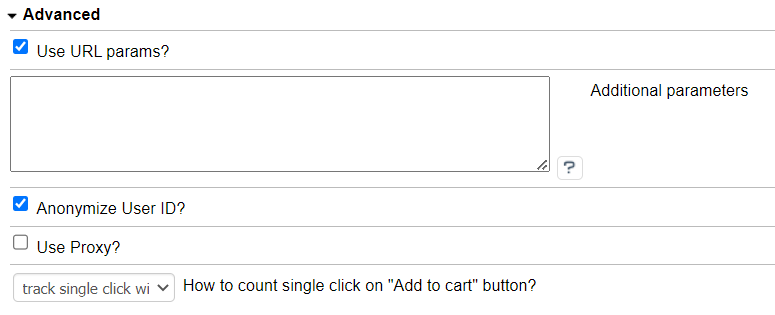
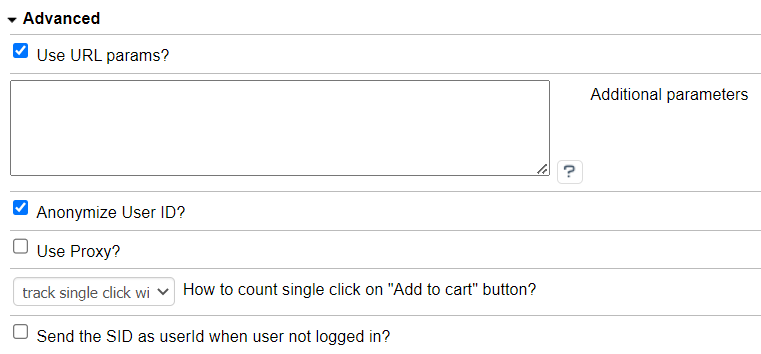
FFWEB-2674: Add option to send the SID as userId when user not logged in

diff --git a/src/out/js/tracking.js b/src/out/js/tracking.js
@@ -1,13 +1,13 @@
-function registerAddToCartListener(selector, productData, userId) {
+function registerAddToCartListener({selector, productData, useSidAsUserId}) {
     if (typeof factfinder === 'undefined') {
         document.addEventListener('ffCommunicationReady', function () {
-            init(selector, productData);
+            init(selector, productData, useSidAsUserId);
         });
     } else {
-        init(selector, productData);
+        init(selector, productData, useSidAsUserId);
     }
 
-    function init(selector, productData) {
+    function init(selector, productData, useSidAsUserId) {
         const trackingHelper = factfinder.communication.Util.trackingHelper;
         const element = document.querySelector(selector);
         const amountInput = element.querySelector('#amountToBasket');
@@ -32,17 +32,27 @@ function registerAddToCartListener(selector, productData, userId) {
             return parseInt(amountInput.value);
         }
 
-        function trackAddToCart(product) {
-            const quantity = getQuantity();
+        function getUserId()
+        {
             const userId = cookies['ff_user_id'];
 
+            if (userId) {
+                return userId;
+            }
+
+            if (useSidAsUserId) {
+                return localStorage.getItem('ff_sid');
+            }
+        }
+
+        function trackAddToCart(product) {
             factfinder.communication.Tracking.cart({
                 id: trackingHelper.getTrackingProductId(product),
                 masterId: trackingHelper.getMasterArticleNumber(product),
                 price: trackingHelper.getPrice(product),
                 title: trackingHelper.getTitle(product),
-                count: quantity,
-                userId
+                count: getQuantity(),
+                userId: getUserId()
             });
         }
 

diff --git a/src/views/admin/de/ffwebcomponents_lang.php b/src/views/admin/de/ffwebcomponents_lang.php
@@ -32,6 +32,7 @@ $aLang = [
     'SHOP_MODULE_ffTrackingAddToCartCount_count_as_one'          => 'track single click as one',
     'SHOP_MODULE_ffTrackingAddToCartCount_count_selected_amount' => 'track single click with selected amount',
     'SHOP_MODULE_ffUseProxy'                                     => 'Proxy benutzen?',
+    'SHOP_MODULE_ffSidAsUserId'                                  => 'Die SID als userId senden, wenn der Benutzer nicht angemeldet ist?',
     'SHOP_MODULE_ffAddSearchParams'                              => 'Zusätzliche Parameter',
     'HELP_SHOP_MODULE_ffAddSearchParams'                         => 'Es gibt vier Parameter, die Sie einstellen können:`add-params`, `add-tracking-params`, `keep-url-params`, `parameter-whitelist`. Jede Parameterdefinition sollte in einer separaten Zeile stehen. Beispiel-Verwendung: add-params => customParam1 => value1, customParam2 => value2',
     'SHOP_MODULE_GROUP_ffFeatures'                               => 'Features Settings',

diff --git a/src/views/admin/en/ffwebcomponents_lang.php b/src/views/admin/en/ffwebcomponents_lang.php
@@ -32,6 +32,7 @@ $aLang = [
     'SHOP_MODULE_ffTrackingAddToCartCount_count_as_one'          => 'track single click as one',
     'SHOP_MODULE_ffTrackingAddToCartCount_count_selected_amount' => 'track single click with selected amount',
     'SHOP_MODULE_ffUseProxy'                                     => 'Use Proxy?',
+    'SHOP_MODULE_ffSidAsUserId'                                  => 'Send the SID as userId when user not logged in?',
     'SHOP_MODULE_ffAddSearchParams'                              => 'Additional parameters',
     'HELP_SHOP_MODULE_ffAddSearchParams'                         => 'There are four parameters you can set: `add-params`, `add-tracking-params`, `keep-url-params`, `parameter-whitelist`. Each parameter definition should be placed in separate row. Example usage : add-params => customParam1 => value1, customParam2 => value2',
     'SHOP_MODULE_GROUP_ffFeatures'                               => 'Features Settings',

diff --git a/src/metadata.php b/src/metadata.php
@@ -233,6 +233,13 @@ $aModule = [
             'position'    => $settingPosition++,
         ],
         [
+            'group'    => 'ffAdvanced',
+            'name'     => 'ffSidAsUserId',
+            'type'     => 'bool',
+            'value'    => false,
+            'position' => $settingPosition++,
+        ],
+        [
             'group'    => 'ffFeatures',
             'name'     => 'ffUseForCategories',
             'type'     => 'bool',

diff --git a/src/views/smarty/modifier.ff_use_sid_a_suser_id.php b/src/views/smarty/modifier.ff_use_sid_a_suser_id.php
@@ -1,0 +1,18 @@
+<?php
+
+declare(strict_types=1);
+
+use OxidEsales\Eshop\Core\Config;
+use OxidEsales\Eshop\Core\Model\BaseModel;
+use OxidEsales\Eshop\Core\Registry;
+
+/**
+ * @SuppressWarnings(PHPMD.UnusedFormalParameter)
+ */
+function smarty_modifier_ff_use_sid_a_suser_id(BaseModel $article): bool
+{
+    /** @var Config $config */
+    $config = Registry::getConfig();
+
+    return $config->getConfigParam('ffSidAsUserId') ?? false;
+}

diff --git a/src/Component/Widget/WebComponent.php b/src/Component/Widget/WebComponent.php
@@ -27,6 +27,11 @@ class WebComponent extends WidgetController
         return $params;
     }
 
+    public function useSidAsUserId(): bool
+    {
+        return $this->config->useSidAsUserId();
+    }
+
     public function getSearchImmediate(): bool
     {
         return $this->config->getParameters()['search-immediate'] === 'true';

diff --git a/src/Model/Config/Communication.php b/src/Model/Config/Communication.php
@@ -66,6 +66,11 @@ class Communication implements ParametersSourceInterface
         ];
     }
 
+    public function useSidAsUserId(): bool
+    {
+        return $this->getConfig('ffSidAsUserId') ?? false;
+    }
+
     protected function getUserId(): string
     {
         $session = Registry::getSession();

diff --git a/README.md b/README.md
@@ -120,6 +120,7 @@ You can find more information about mentioned properties purposes in Web Compone
 * `Use Proxy` - check this option if you want each request sends by Web Components first reach the dedicated module controller which forwards it to the FACT-Finder.
 **Note:** If you plan to use proxy, consider reading below paragraph as it requires full instruction how to enable it properly. 
 * `How to count single click on "Add to cart" button?` - select how would you like to count single click on "Add to cart" button
+* `Send the SID as userId when user not logged in?`
 
 #### Proxy
 Proxy feature adds a oxid controller which serves as a middleware between Web Components and FACT-Finder®.

diff --git a/CHANGELOG.md b/CHANGELOG.md
@@ -1,4 +1,10 @@
 # Changelog
+## Unreleased
+### Add
+- Add add option to send the SID as userId when user not logged in
+### Change
+- Send userId inside "add to cart" tracking
+
 ## [v4.4.0] - 2023.02.20
 ### Add
 - Tracking
